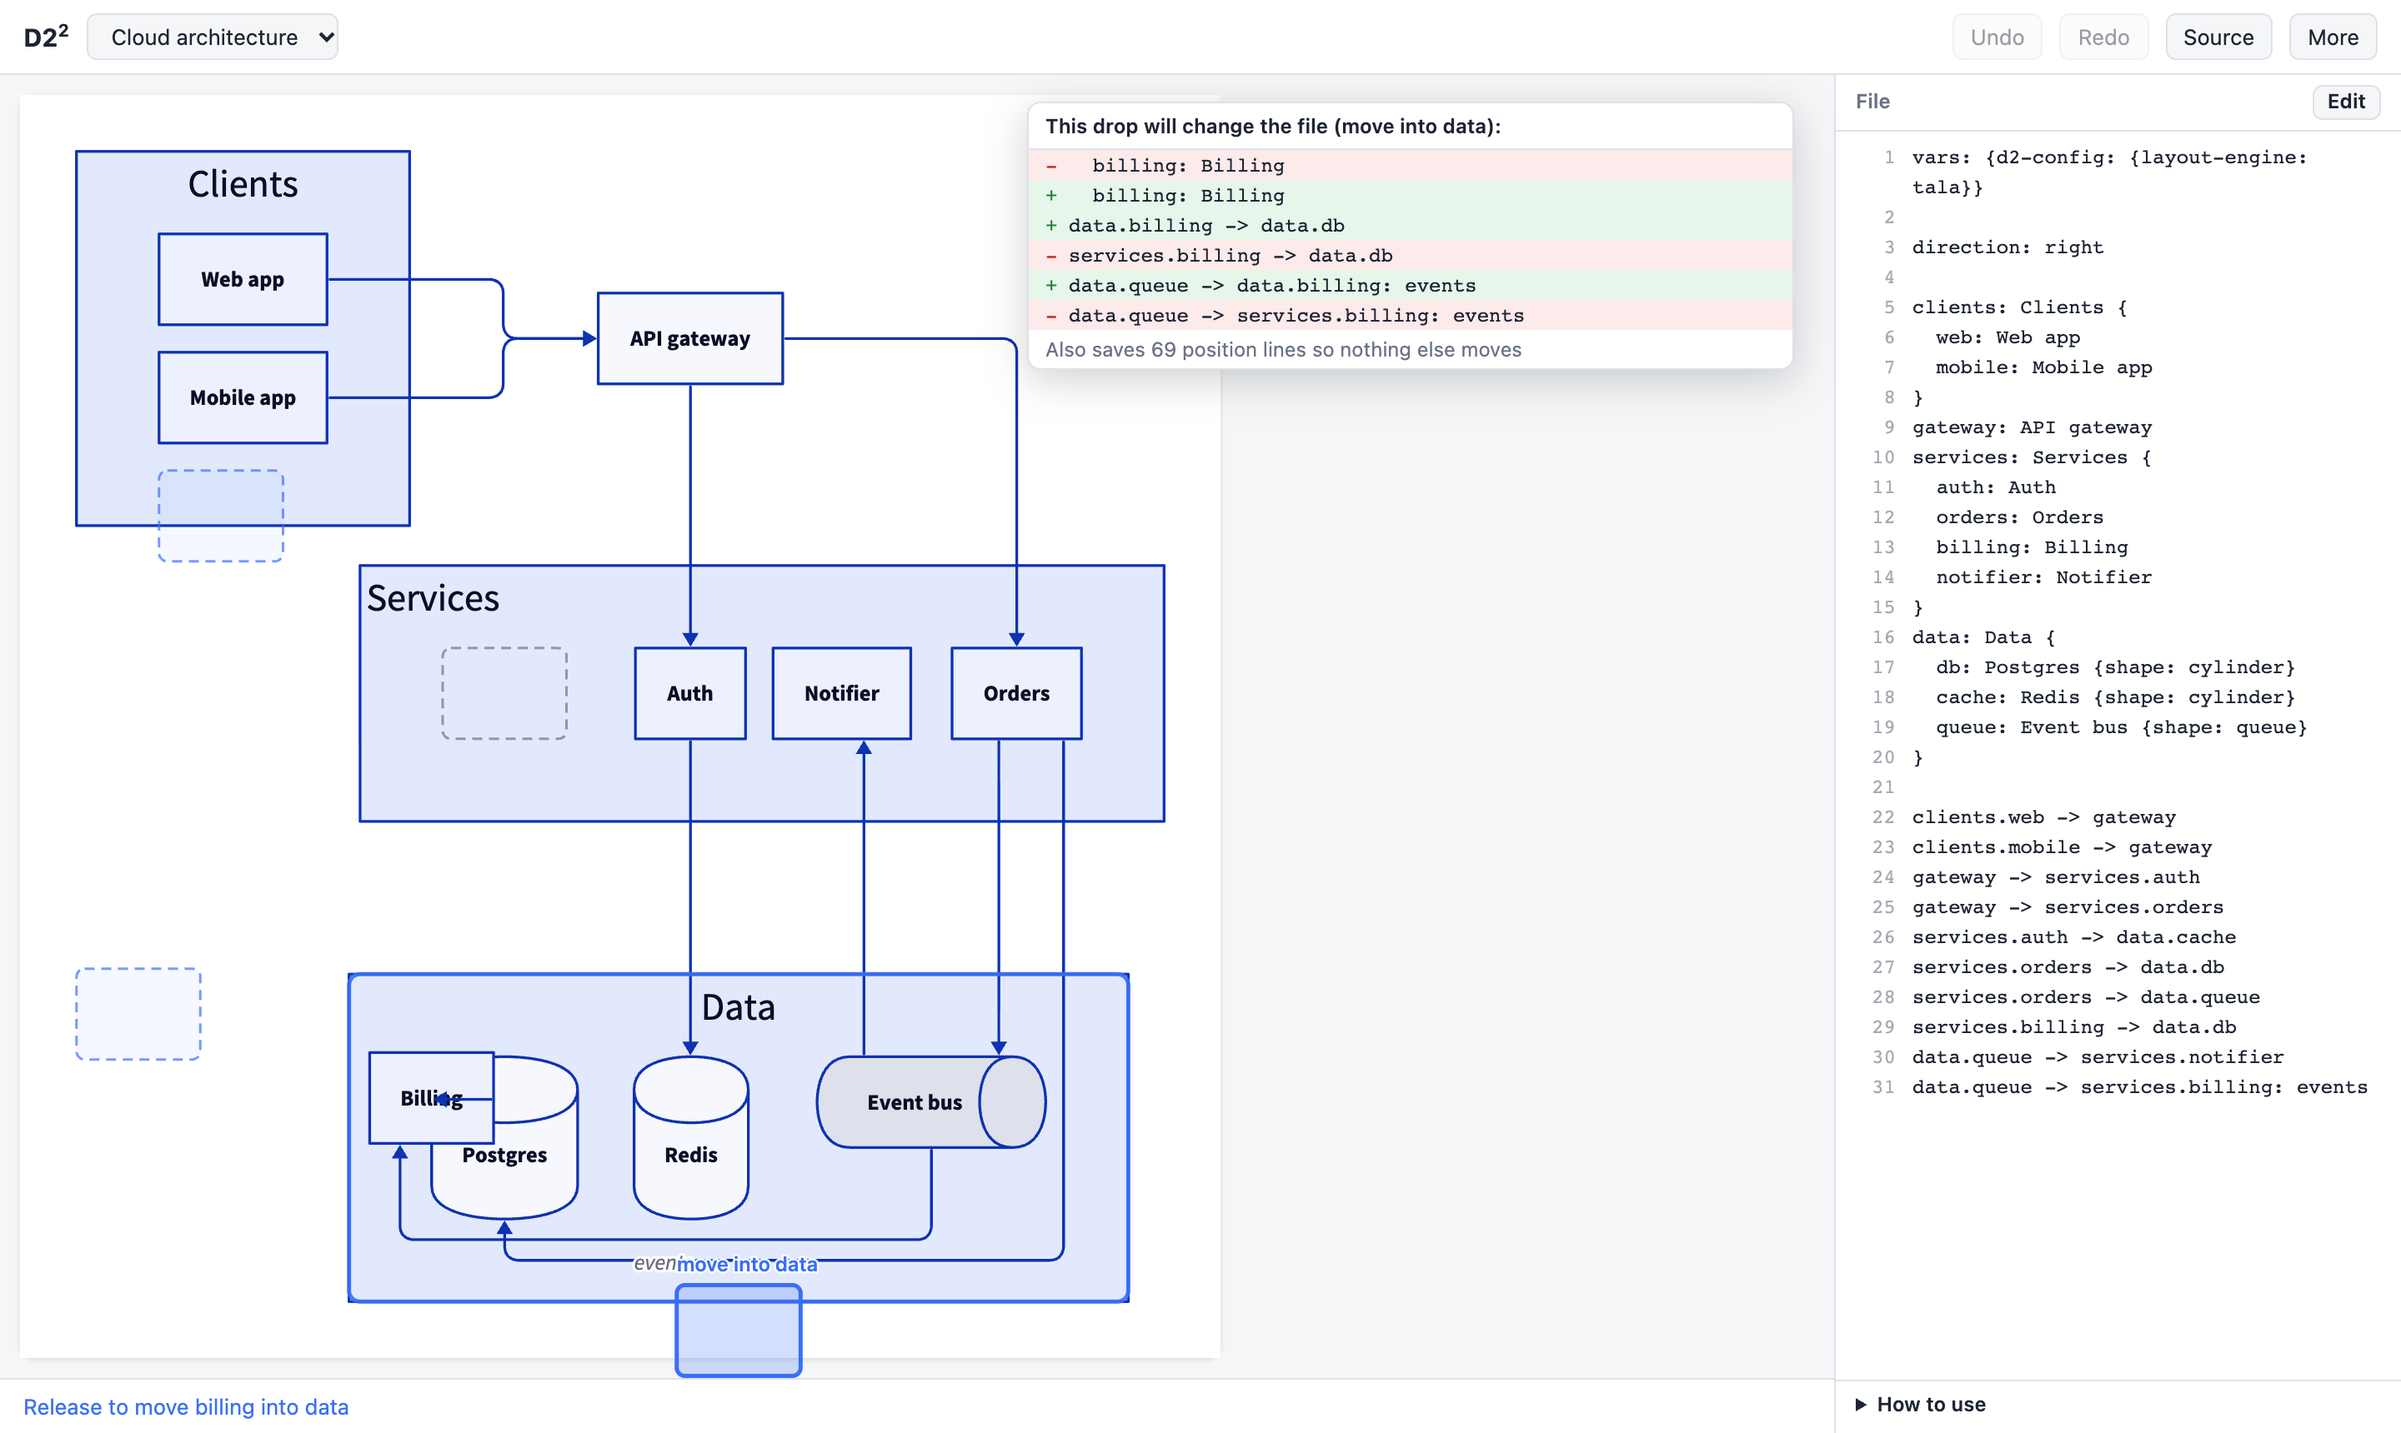
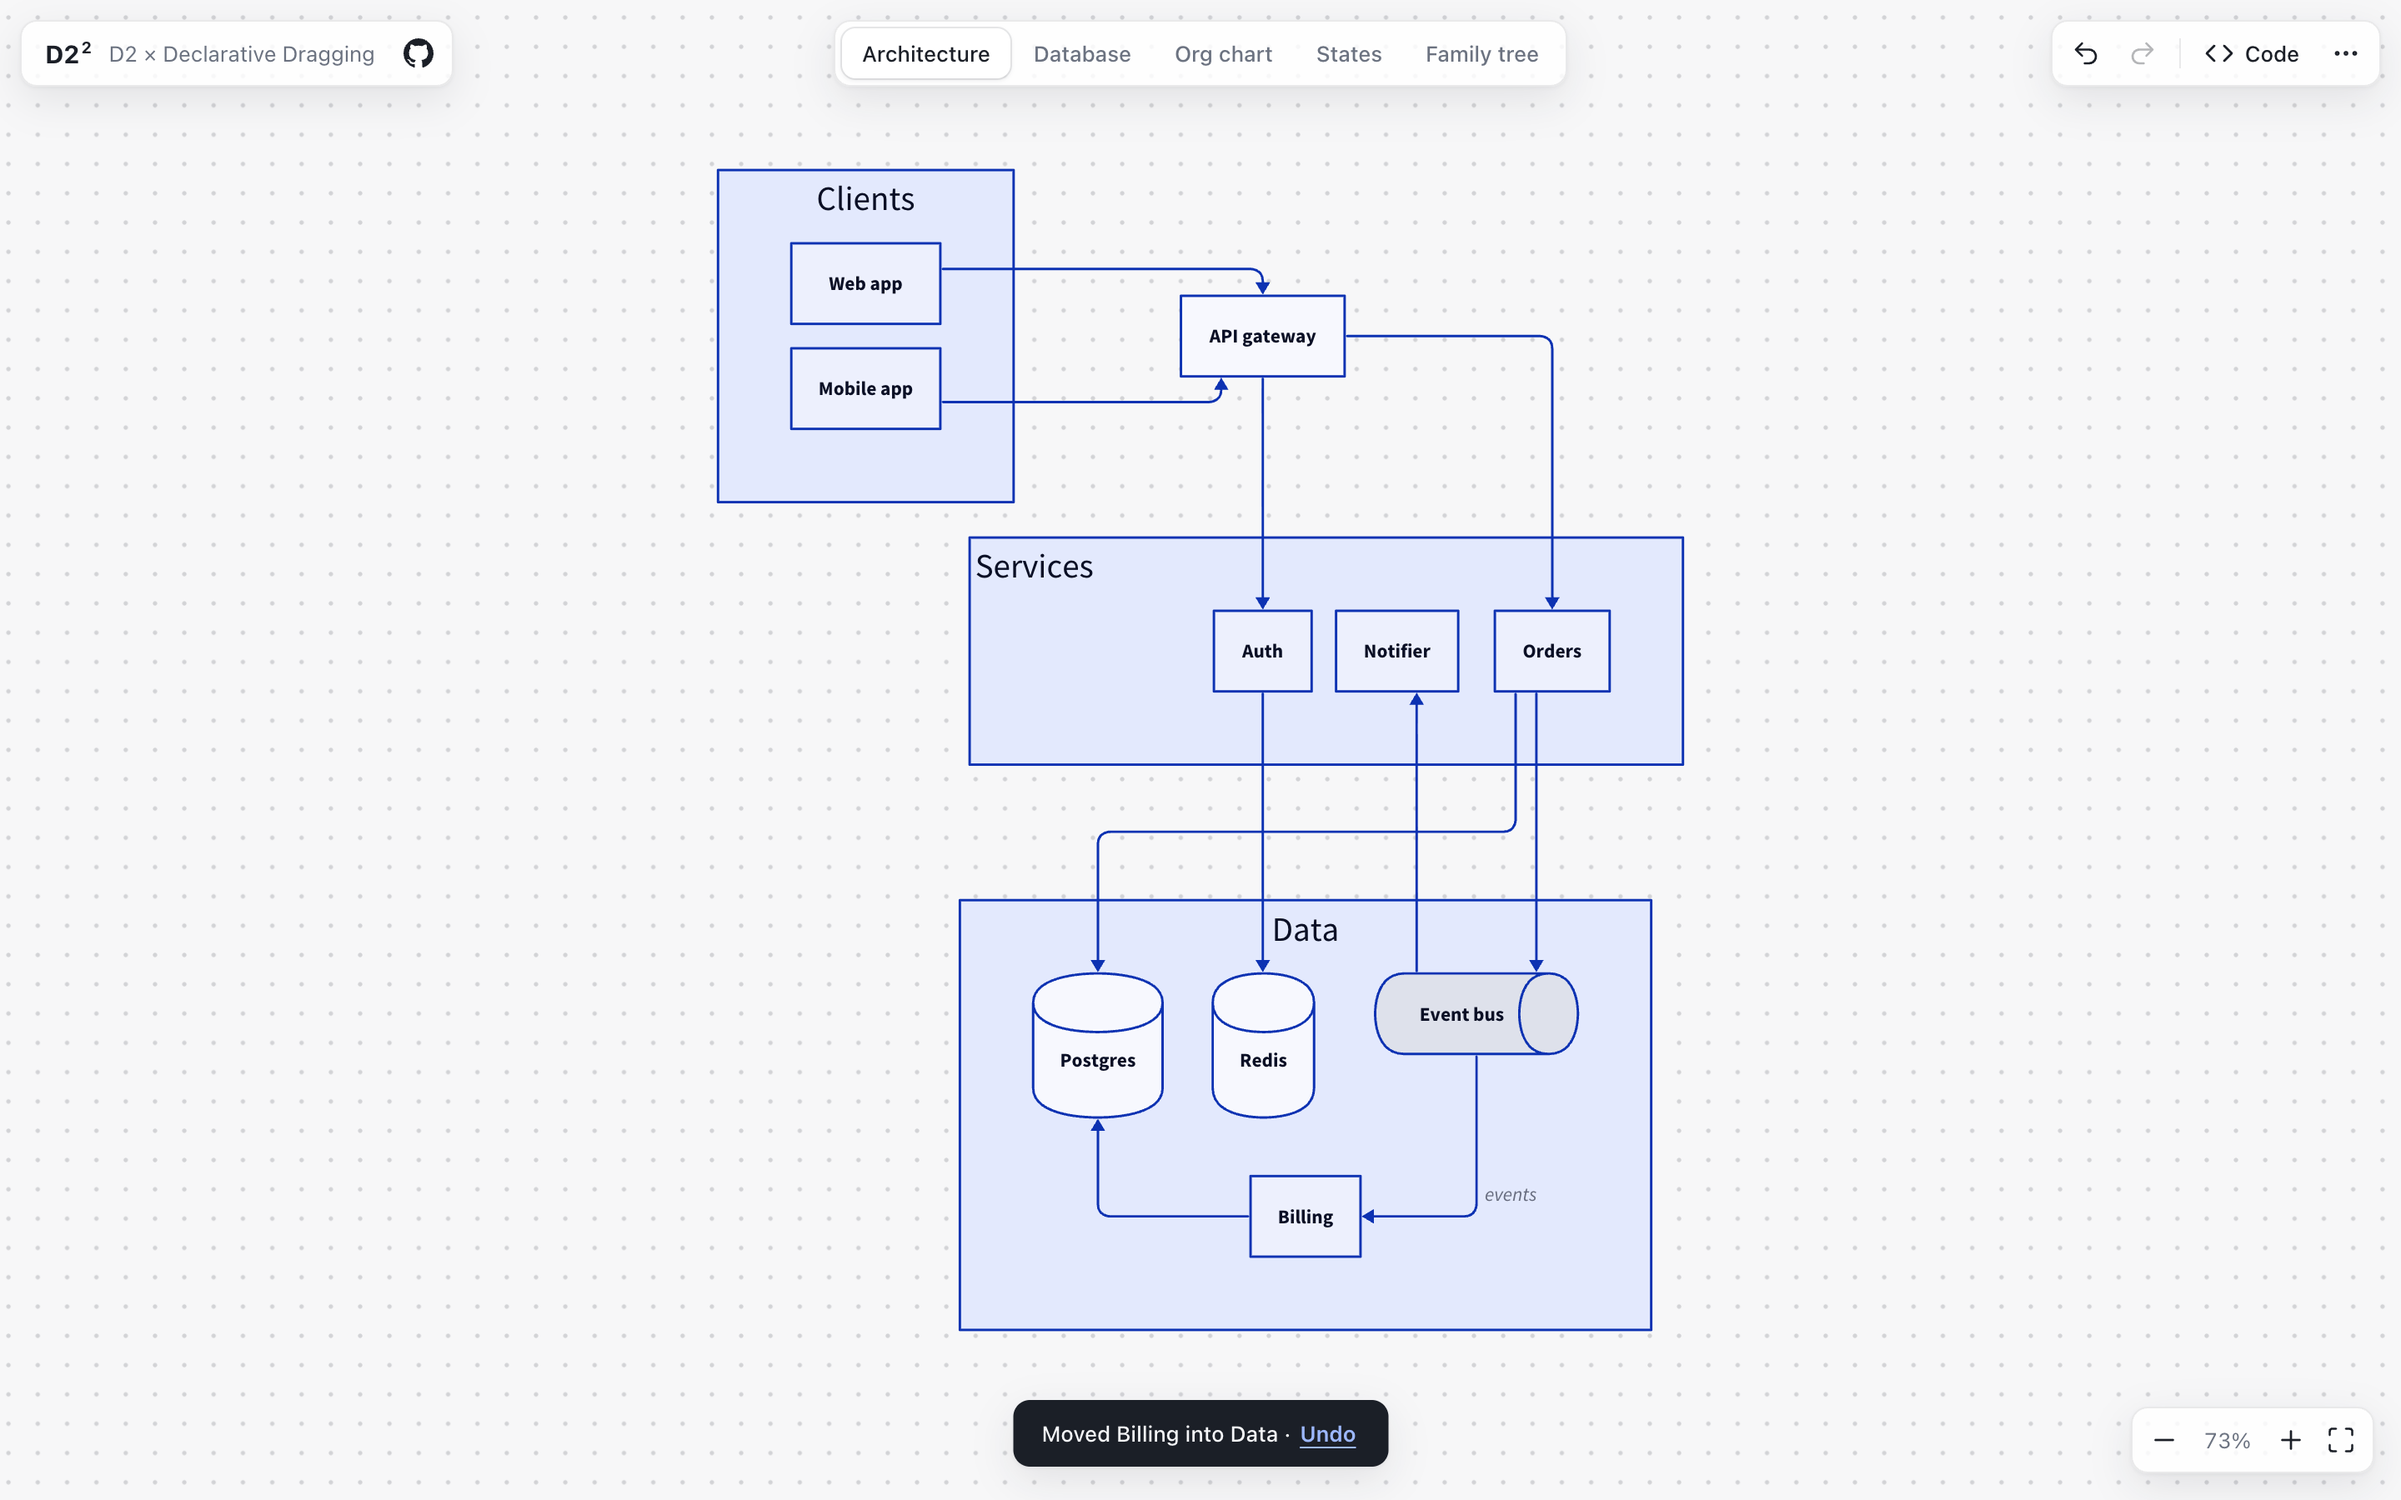
Use the redesigned UI in the README screenshot

diff --git a/README.md b/README.md
@@ -7,7 +7,7 @@ D2² (D2 squared) is D2 × D2. It combines two projects that are both called D2.
 
 Together they make D2 diagrams draggable. You can move a box into a group, drag the end of an arrow onto another box, or place a box where you want it. Each drag is saved as a small edit to your `.d2` file, so the text stays the source of truth.
 
-![D2 squared moving a box into a group](docs/screenshot.png)
+![D2 squared after moving Billing into the Data group](docs/screenshot.png)
 
 ## Try it
 
